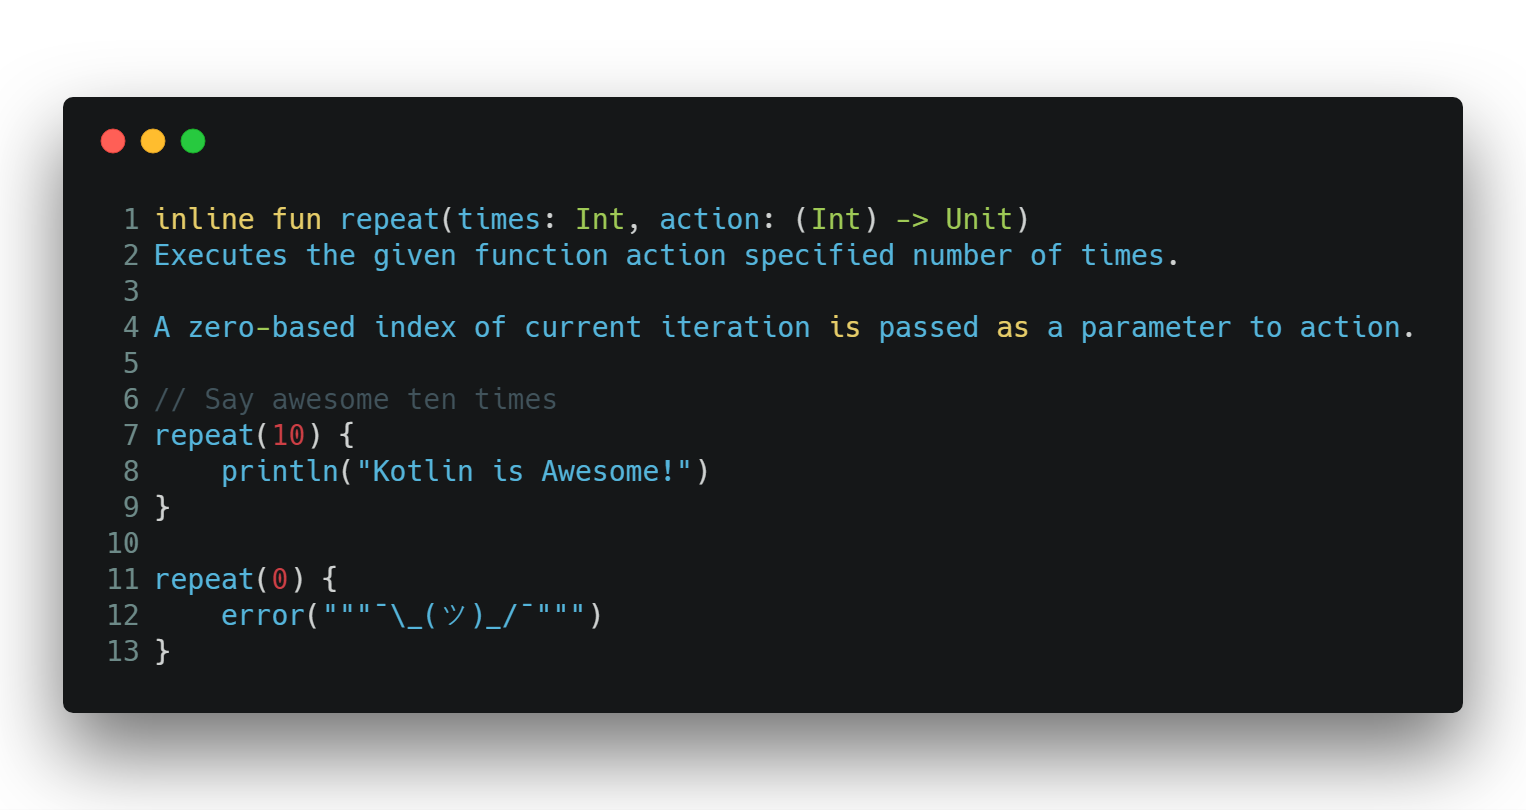
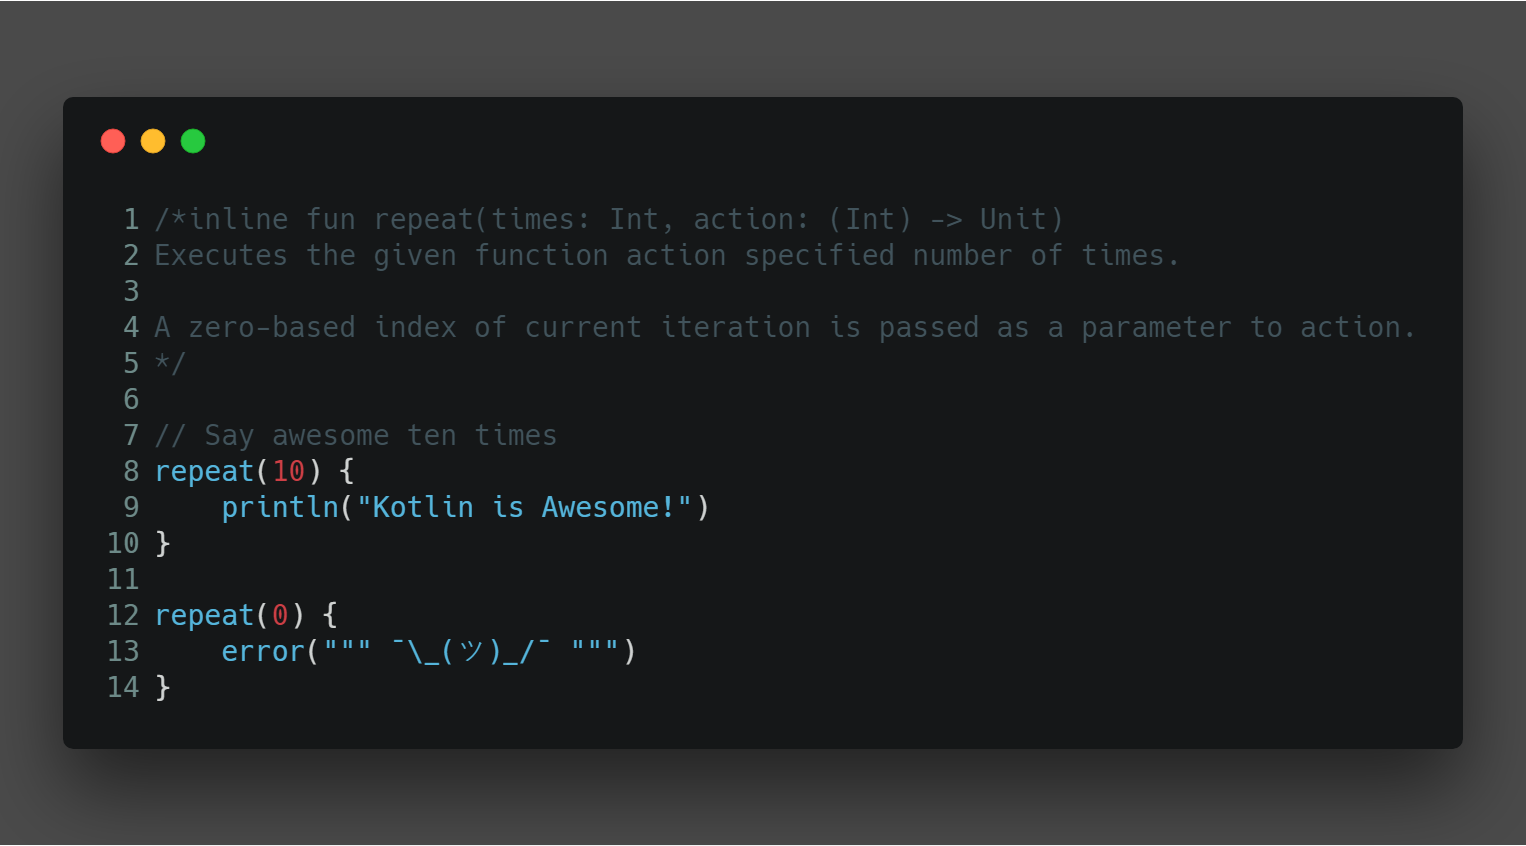
Repeat Function Fix

diff --git a/codes/RepeatFunction.kt b/codes/RepeatFunction.kt
@@ -1,7 +1,8 @@
-inline fun repeat(times: Int, action: (Int) -> Unit)
+/*inline fun repeat(times: Int, action: (Int) -> Unit)
 Executes the given function action specified number of times.
 
 A zero-based index of current iteration is passed as a parameter to action.
+*/
 
 // Say awesome ten times
 repeat(10) {
